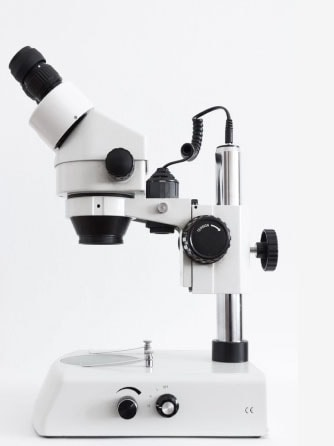
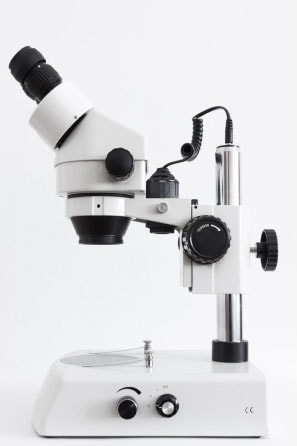
Intro and partners blocks lg-vp version added

diff --git a/source/sass/components/_intro.scss b/source/sass/components/_intro.scss
@@ -7,7 +7,8 @@
   grid-template-areas:
     "h i"
     "d d";
-  grid-row-gap: 30px;
+  grid-row-gap: 24px;
+  grid-column-gap: 10px;
   padding-top: 20px;
   padding-bottom: 30px;
 
@@ -16,25 +17,32 @@
       "h i"
       "d i";
     grid-row-gap: 0;
-    grid-column-gap: 20px;
+    grid-column-gap: 40px;
     padding-top: 0;
     padding-bottom: 0;
+  }
+
+  @media (min-width: $large-min-width) {
+    grid-column-gap: 90px;
+    padding-left: 68px;
   }
 }
 
 .intro__image-wrapper {
   grid-area: i;
-  justify-self: end;
+  width: 120px;
+
+  @media (min-width: $medium-min-width) {
+    width: 220px;
+  }
+
+  @media (min-width: $large-min-width) {
+    width: 297px;
+  }
 }
 
 .intro__image {
   display: block;
-  width: 110px;
-  height: auto;
-
-  @media (min-width: $medium-min-width) {
-    width: 240px;
-  }
 }
 
 .intro__heading {
@@ -42,11 +50,29 @@
   align-self: center;
   margin-top: 0;
   margin-bottom: 0;
-  padding-right: 10px;
+
+  @media (min-width: $medium-min-width) {
+    align-self: start;
+    margin-top: 48px;
+  }
+
+  @media (min-width: $large-min-width) {
+    margin-top: 64px;
+  }
 }
 
 .intro__description {
+  @include font(400, 15px, 21px);
   grid-area: d;
   margin-top: 0;
   margin-bottom: 0;
+
+  @media (min-width: $medium-min-width) {
+    margin-bottom: 40px;
+    font-size: 18px;
+  }
+
+  @media (min-width: $large-min-width) {
+    margin-bottom: 140px;
+  }
 }

diff --git a/source/sass/components/_partners.scss b/source/sass/components/_partners.scss
@@ -1,6 +1,16 @@
 .partners__inner {
   padding-top: 30px;
   padding-bottom: 30px;
+
+  @media (min-width: $medium-min-width) {
+    padding-top: 60px;
+    padding-bottom: 60px;
+  }
+
+  @media (min-width: $large-min-width) {
+    padding-top: 128px;
+    padding-bottom: 128px;
+  }
 }
 
 .partners__heading {
@@ -8,6 +18,10 @@
   margin-bottom: 40px;
   padding-left: 20px;
   padding-right: 20px;
+
+  @media (min-width: $large-min-width) {
+    margin-bottom: 75px;
+  }
 }
 
 .partners__item {

diff --git a/source/sass/components/_product-catalog.scss b/source/sass/components/_product-catalog.scss
@@ -1,5 +1,5 @@
 .product-catalog__inner {
-  padding-bottom: 30px;
+  padding-bottom: 40px;
 
   .product-catalog--equipment & {
     padding-top: 40px;
